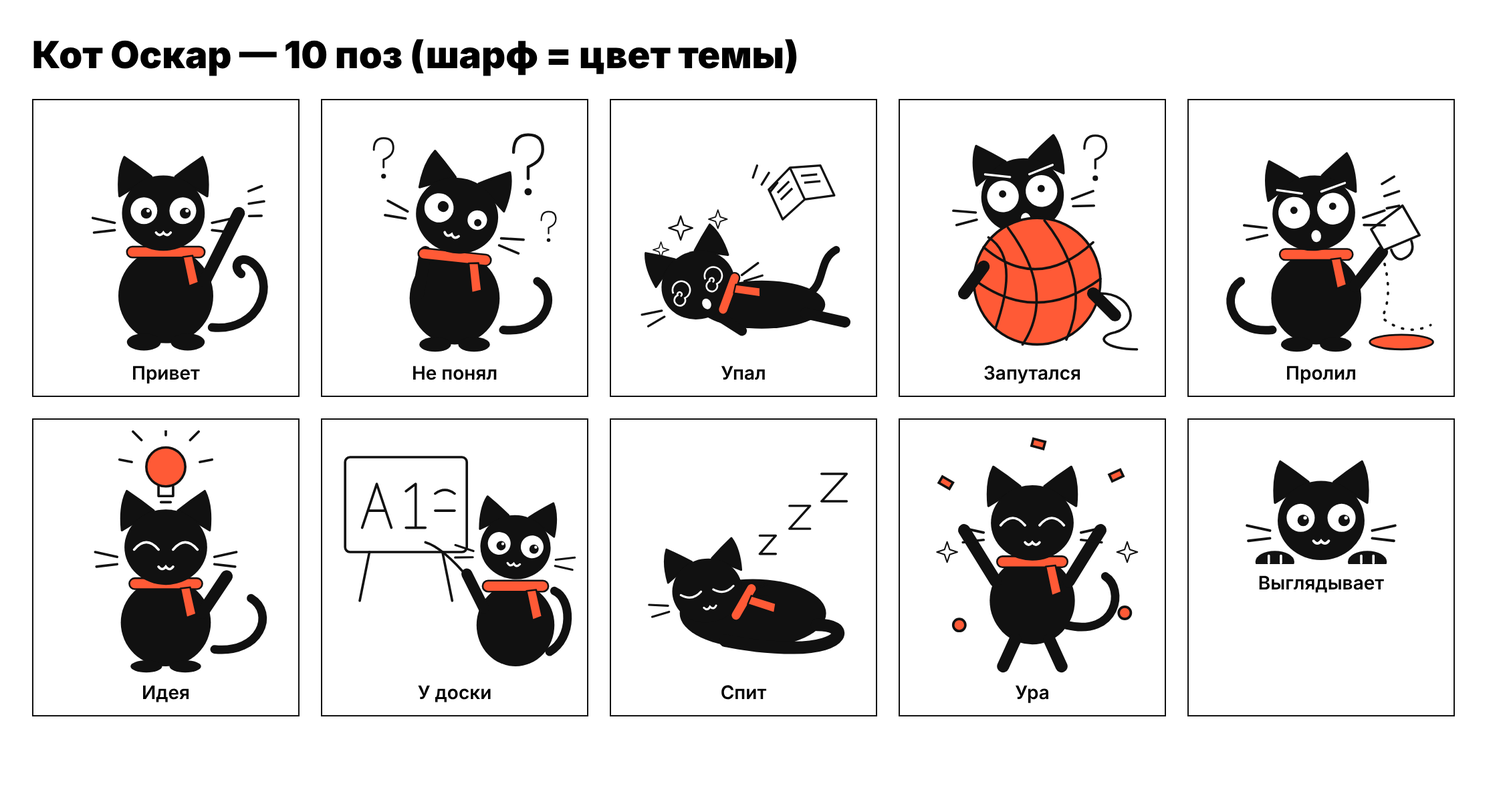
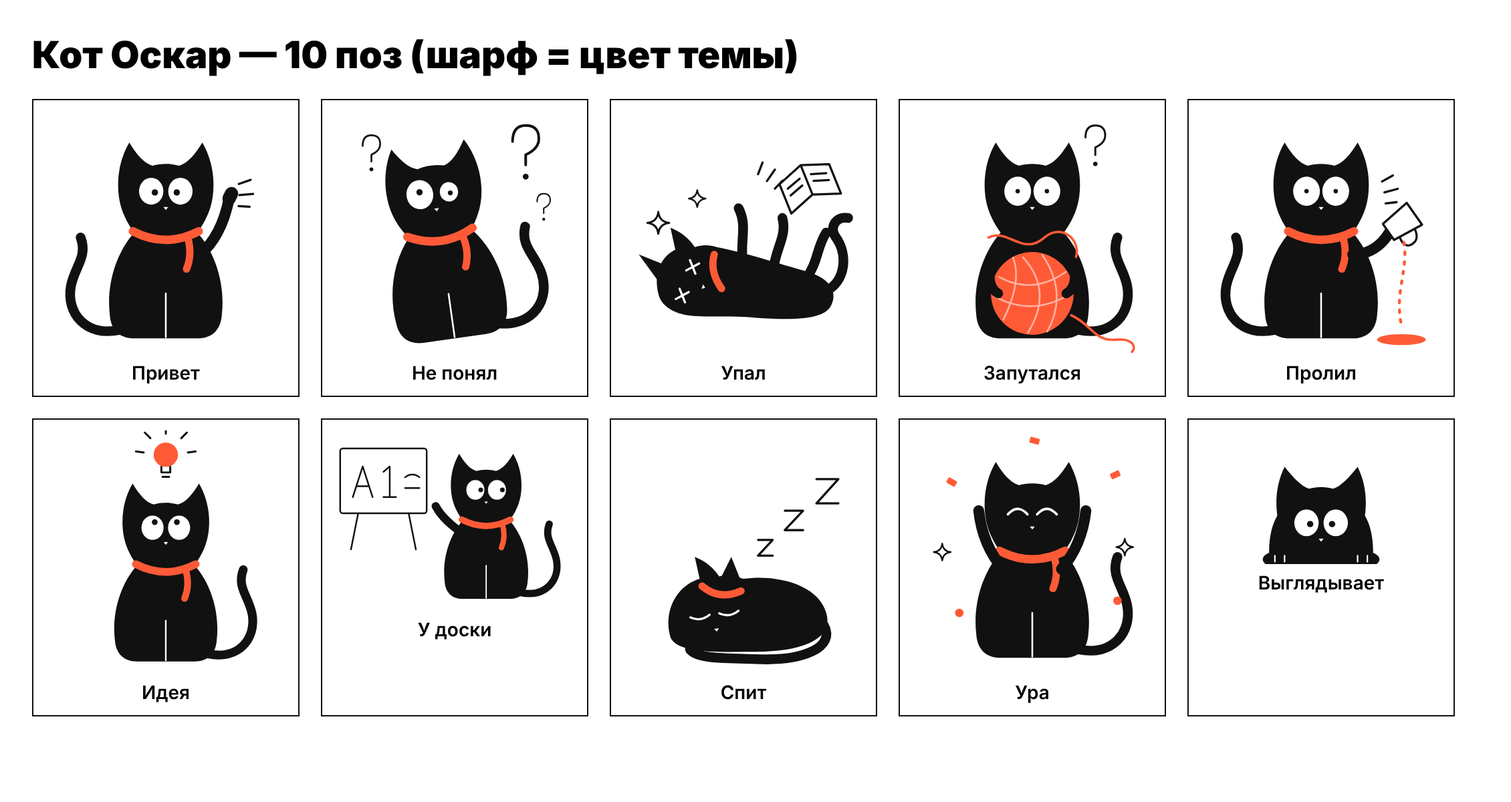
A1 Pack: кот Оскар v2 — цельный силуэт
Claude-Session: https://claude.ai/code/session_015qZXG6VofAvZu1TrhE4rwB

diff --git a/a1-pack/tools/draw_oscar.py b/a1-pack/tools/draw_oscar.py
@@ -1,141 +1,161 @@
-"""Kaķis Oskars — oriģināls maskots (melns, apaļš, neveikls) + doodle dekori.
-Palaid: python3 a1-pack/tools/draw_oscar.py  → a1-pack/design/oscar/*.svg
-Šalle un konfeti — var(--accent) (tēmas krāsa)."""
+"""Kaķis Oskars — oriģināls maskots: viens plūstošs melns siluets, lielas baltas acis ar punktiņiem,
+garā aste, tievas ķepas. Neveikls. Akcenta krāsa (šalle, dzija, kafija) — var(--accent).
+Palaid: python3 a1-pack/tools/draw_oscar.py  → a1-pack/design/oscar/*.svg"""
 from pathlib import Path
 OUT = Path(__file__).resolve().parent.parent / "design" / "oscar"
 A = "var(--accent,#FF5A36)"
 K = "#111"
-S = f'fill="none" stroke="{K}" stroke-width="2" stroke-linecap="round" stroke-linejoin="round"'
+L = f'fill="none" stroke="{K}" stroke-width="1.8" stroke-linecap="round" stroke-linejoin="round"'
 
-def head(x, y, rot=0, eyes="open", s=1.0):
-    e = ""
-    if eyes == "open":
-        e = (f'<circle cx="-16" cy="-2" r="11" fill="#fff"/><circle cx="16" cy="-2" r="11" fill="#fff"/>'
-             f'<circle cx="-14" cy="0" r="4.5" fill="{K}"/><circle cx="18" cy="0" r="4.5" fill="{K}"/>'
-             f'<circle cx="-12.5" cy="-2" r="1.4" fill="#fff"/><circle cx="19.5" cy="-2" r="1.4" fill="#fff"/>')
-    elif eyes == "worried":
-        e = (f'<circle cx="-16" cy="-2" r="13" fill="#fff"/><circle cx="16" cy="-2" r="13" fill="#fff"/>'
-             f'<circle cx="-16" cy="-4" r="3" fill="{K}"/><circle cx="16" cy="-4" r="3" fill="{K}"/>'
-             f'<path d="M-28,-22 L-8,-17 M28,-22 L8,-17" stroke="#fff" stroke-width="1.8" stroke-linecap="round"/>')
-    elif eyes == "odd":
-        e = (f'<circle cx="-16" cy="-2" r="12" fill="#fff"/><circle cx="17" cy="-1" r="8" fill="#fff"/>'
-             f'<circle cx="-13" cy="-4" r="4.5" fill="{K}"/><circle cx="18" cy="1" r="3" fill="{K}"/>')
-    elif eyes == "dizzy":
-        e = ('<path d="M-16,-2 m-8,0 a8,8 0 1,1 8,8 a5,5 0 1,1 -5,-5 a2,2 0 1,1 2,2" fill="none" stroke="#fff" stroke-width="1.6"/>'
-             '<path d="M16,-2 m-8,0 a8,8 0 1,1 8,8 a5,5 0 1,1 -5,-5 a2,2 0 1,1 2,2" fill="none" stroke="#fff" stroke-width="1.6"/>')
-    elif eyes == "closed":
-        e = '<path d="M-26,0 Q-16,8 -6,0 M6,0 Q16,8 26,0" fill="none" stroke="#fff" stroke-width="2" stroke-linecap="round"/>'
-    elif eyes == "happy":
-        e = '<path d="M-26,2 Q-16,-10 -6,2 M6,2 Q16,-10 26,2" fill="none" stroke="#fff" stroke-width="2" stroke-linecap="round"/>'
-    mouth = '<path d="M-6,16 Q-3,20 0,16 Q3,20 6,16" fill="none" stroke="#fff" stroke-width="2" stroke-linecap="round"/>'
-    if eyes in ("worried", "dizzy"):
-        mouth = '<ellipse cx="0" cy="19" rx="4" ry="5" fill="#fff"/>'
-    wh = f'<path d="M-40,8 L-58,4 M-40,14 L-57,16 M40,8 L58,4 M40,14 L57,16" {S} stroke-width="1.2"/>'
-    return (f'<g transform="translate({x},{y}) rotate({rot}) scale({s})">{wh}'
-            f'<path d="M-36,-14 Q-38,-34 -32,-46 Q-20,-38 -10,-30 Z M36,-14 Q38,-34 32,-46 Q20,-38 10,-30 Z" fill="{K}" stroke="{K}" stroke-width="2" stroke-linejoin="round"/>'
-            f'<ellipse cx="0" cy="0" rx="34" ry="31" fill="{K}"/>{e}{mouth}</g>')
 
-def scarf(x, y, w=64, rot=0):
-    return (f'<g transform="translate({x},{y}) rotate({rot})"><rect x="{-w/2}" y="-4.5" width="{w}" height="9" rx="4.5" fill="{A}" stroke="{K}" stroke-width="1.4"/>'
-            f'<path d="M{w/2-18},4 l5,24 l8,-3 l-5,-22 Z" fill="{A}" stroke="{K}" stroke-width="1.4" stroke-linejoin="round"/></g>')
+def sil(d):
+    return f'<path d="{d}" fill="{K}"/>'
 
-def tail(d, w=7):
-    return f'<path d="{d}" fill="none" stroke="{K}" stroke-width="{w}" stroke-linecap="round"/>'
 
-def paw(x1, y1, x2, y2, w=10):
-    return f'<path d="M{x1},{y1} L{x2},{y2}" stroke="{K}" stroke-width="{w}" stroke-linecap="round"/>'
+def limb(d, w=9):
+    return f'<path d="{d}" fill="none" stroke="{K}" stroke-width="{w}" stroke-linecap="round" stroke-linejoin="round"/>'
+
+
+# sēdošs kaķis: galva + kakls + bumbierveida ķermenis — viena kontūra
+SIT = ("M70,26 C76,36 82,43 89,45 C96,43 104,43 111,45 C118,43 124,36 130,26 "
+       "C137,38 140,52 139,66 C138,82 131,93 126,100 C141,117 149,143 146,168 "
+       "C145,181 137,187 126,187 L74,187 C63,187 55,181 54,168 C51,143 59,117 74,100 "
+       "C69,93 62,82 61,66 C60,52 63,38 70,26 Z")
+
+
+def face(cx=100, cy=66, kind="open", rot=0):
+    w = "#fff"
+    if kind == "open":
+        e = (f'<ellipse cx="-12" cy="0" rx="10" ry="11" fill="{w}"/><ellipse cx="12" cy="0" rx="10" ry="11" fill="{w}"/>'
+             f'<circle cx="-9" cy="1" r="2.6" fill="{K}"/><circle cx="9" cy="1" r="2.6" fill="{K}"/>')
+    elif kind == "side":
+        e = (f'<ellipse cx="-12" cy="0" rx="10" ry="11" fill="{w}"/><ellipse cx="12" cy="0" rx="10" ry="11" fill="{w}"/>'
+             f'<circle cx="-6" cy="0" r="2.6" fill="{K}"/><circle cx="18" cy="0" r="2.6" fill="{K}"/>')
+    elif kind == "up":
+        e = (f'<ellipse cx="-12" cy="0" rx="10" ry="11" fill="{w}"/><ellipse cx="12" cy="0" rx="10" ry="11" fill="{w}"/>'
+             f'<circle cx="-10" cy="-5" r="2.6" fill="{K}"/><circle cx="10" cy="-5" r="2.6" fill="{K}"/>')
+    elif kind == "odd":
+        e = (f'<ellipse cx="-12" cy="0" rx="11" ry="12" fill="{w}"/><ellipse cx="12" cy="1" rx="7.5" ry="8" fill="{w}"/>'
+             f'<circle cx="-12" cy="-2" r="2.6" fill="{K}"/><circle cx="13" cy="2" r="2" fill="{K}"/>')
+    elif kind == "wide":
+        e = (f'<ellipse cx="-12" cy="0" rx="11" ry="12" fill="{w}"/><ellipse cx="12" cy="0" rx="11" ry="12" fill="{w}"/>'
+             f'<circle cx="-12" cy="0" r="1.8" fill="{K}"/><circle cx="12" cy="0" r="1.8" fill="{K}"/>')
+    elif kind == "closed":
+        e = f'<path d="M-20,1 Q-12,6 -4,1 M4,1 Q12,6 20,1" fill="none" stroke="{w}" stroke-width="1.8" stroke-linecap="round"/>'
+    elif kind == "happy":
+        e = f'<path d="M-20,3 Q-12,-6 -4,3 M4,3 Q12,-6 20,3" fill="none" stroke="{w}" stroke-width="2" stroke-linecap="round"/>'
+    elif kind == "dizzy":
+        e = (f'<path d="M-17,-4 l9,8 M-8,-4 l-9,8 M8,-4 l9,8 M17,-4 l-9,8" fill="none" stroke="{w}" stroke-width="1.8" stroke-linecap="round"/>')
+    nose = f'<path d="M-2,13 L2,13 L0,15.5 Z" fill="{w}"/>'
+    return f'<g transform="translate({cx},{cy}) rotate({rot})">{e}{nose}</g>'
+
+
+def scarf(path="M73,99 Q100,113 127,99", tail="M118,104 q4,14 -1,26"):
+    return (f'<path d="{path}" fill="none" stroke="{A}" stroke-width="7" stroke-linecap="round"/>'
+            f'<path d="{tail}" fill="none" stroke="{A}" stroke-width="6" stroke-linecap="round"/>')
+
+
+def legline(x=100, y1=150, y2=186):
+    return f'<path d="M{x},{y1} L{x},{y2}" stroke="#fff" stroke-width="1.4" stroke-linecap="round"/>'
+
 
 def qmark(x, y, s=1):
-    return f'<g transform="translate({x},{y}) scale({s})"><path d="M-8,-10 Q-8,-22 2,-22 Q12,-22 12,-12 Q12,-4 2,0 L2,8" {S}/><circle cx="2" cy="17" r="2.5" fill="{K}"/></g>'
+    return f'<g transform="translate({x},{y}) scale({s})"><path d="M-7,-9 Q-7,-20 2,-20 Q11,-20 11,-11 Q11,-4 2,0 L2,7" {L}/><circle cx="2" cy="15" r="2" fill="{K}"/></g>'
 
-def star(x, y, s=1, fill="none"):
-    return f'<path transform="translate({x},{y}) scale({s})" d="M0,-12 L3,-3 L12,0 L3,3 L0,12 L-3,3 L-12,0 L-3,-3 Z" fill="{fill}" stroke="{K}" stroke-width="1.6" stroke-linejoin="round"/>'
 
-def motion(x, y, rot=0):
-    return f'<path transform="translate({x},{y}) rotate({rot})" d="M0,0 l10,-6 M2,10 l12,-4 M4,20 l10,-2" {S} stroke-width="1.6"/>'
+def spark(x, y, s=1):
+    return f'<path transform="translate({x},{y}) scale({s})" d="M0,-10 Q1,-1 10,0 Q1,1 0,10 Q-1,1 -10,0 Q-1,-1 0,-10 Z" {L}/>'
+
+
+def lines(x, y, rot=0):
+    return f'<path transform="translate({x},{y}) rotate({rot})" d="M0,0 l9,-5 M2,9 l11,-3 M3,18 l9,-1" {L}/>'
+
+
+TAIL_R = limb("M138,180 C166,186 182,166 178,144 C175,128 164,120 170,104", 8)
+TAIL_L = limb("M62,180 C34,186 18,166 22,144 C25,128 36,120 30,104", 8)
 
 P = {}
-P["hello"] = ("0 0 200 200",
-    tail("M138,178 C178,182 192,140 170,124 C160,118 154,128 162,134") +
-    '<ellipse cx="100" cy="152" rx="39" ry="39" fill="#111"/>' + paw(132, 140, 160, 84) +
-    '<ellipse cx="82" cy="190" rx="14" ry="7" fill="#111"/><ellipse cx="118" cy="190" rx="14" ry="7" fill="#111"/>' +
-    scarf(100, 116) + head(98, 84) + motion(168, 66, 10))
-P["oops"] = ("0 0 200 200",
-    '<g transform="translate(16,8) scale(.9)">' + tail("M150,160 C170,150 160,128 178,118") +
-    '<ellipse cx="110" cy="168" rx="58" ry="22" fill="#111"/>' + paw(150, 176, 186, 184, 10) + paw(70, 178, 92, 192, 9) +
-    head(52, 150, -24, "dizzy") + star(36, 98, .9) + star(70, 90, .7) + star(18, 118, .6) +
-    '<g transform="translate(140,52) rotate(-25)"><path d="M-26,0 L0,-10 L0,22 L-26,30 Z M26,0 L0,-10 L0,22 L26,30 Z" fill="#fff" stroke="#111" stroke-width="2" stroke-linejoin="round"/>'
-    '<path d="M-20,6 L-6,1 M-20,13 L-6,8 M6,1 L20,6 M6,8 L20,13" stroke="#111" stroke-width="2"/></g>' + motion(102, 52, -40) +
-    scarf(80, 158, 40, -70) + "</g>")
-P["tangled"] = ("0 0 200 200",
-    head(92, 70, -8, "worried") +
-    f'<circle cx="104" cy="140" r="52" fill="{A}" stroke="#111" stroke-width="2"/>'
-    f'<path d="M60,112 Q104,150 150,108 M54,140 Q104,176 156,138 M70,178 Q90,120 64,104 M110,90 Q150,140 128,188 M80,96 Q120,150 92,192" {S} stroke-width="1.6"/>'
-    + paw(60, 128, 44, 150, 10) + paw(150, 150, 168, 168, 10) +
-    f'<path d="M156,150 C182,150 190,176 168,182 C150,186 160,196 186,196" {S} stroke-width="1.6"/>' + qmark(150, 40, .9))
-P["teacher"] = ("0 0 200 200",
-    '<rect x="10" y="22" width="100" height="78" rx="4" fill="#fff" stroke="#111" stroke-width="2"/>'
-    '<path d="M24,80 L36,44 L48,80 M29,66 L43,66 M60,50 L68,44 L68,80 M60,80 L76,80" fill="none" stroke="#111" stroke-width="2" stroke-linecap="round" stroke-linejoin="round"/>'
-    f'<path d="M84,52 Q92,46 100,52 M84,66 L100,66" {S} stroke-width="1.6"/>'
-    '<path d="M30,100 L22,140 M90,100 L98,140" stroke="#111" stroke-width="2" stroke-linecap="round"/>' +
-    tail("M178,182 C198,170 196,138 182,132") +
-    '<ellipse cx="150" cy="160" rx="32" ry="34" fill="#111"/>' + paw(124, 146, 110, 118, 9) +
-    '<path d="M112,122 Q90,96 76,92" stroke="#111" stroke-width="2" fill="none" stroke-linecap="round"/>' +
-    scarf(150, 128, 54) + head(150, 96, 6, "open", .85))
-P["confused"] = ("0 0 200 200",
-    tail("M140,180 C176,184 186,150 168,140") +
-    '<ellipse cx="100" cy="154" rx="37" ry="38" fill="#111"/>' + paw(70, 150, 76, 116, 10) +
-    '<ellipse cx="84" cy="192" rx="13" ry="6" fill="#111"/><ellipse cx="116" cy="192" rx="13" ry="6" fill="#111"/>' +
-    scarf(100, 120, 60, 6) + head(102, 86, 16, "odd") + qmark(158, 46, 1.2) + qmark(40, 40, .8) + qmark(176, 96, .6))
-P["sleep"] = ("0 0 200 200",
-    '<g transform="translate(10,0) scale(.94)"><ellipse cx="104" cy="160" rx="64" ry="30" fill="#111"/>' +
-    tail("M160,170 C190,170 184,190 140,190 C110,190 92,186 80,184", 11) +
-    head(64, 140, -10, "closed", .9) +
-    f'<path d="M110,92 h14 l-14,16 h14 M136,66 h18 l-18,20 h18 M164,38 h22 l-22,24 h22" {S} stroke-width="2"/>' +
-    scarf(96, 150, 36, -60) + "</g>")
-P["spill"] = ("0 0 200 200",
-    tail("M60,180 C24,184 18,150 34,140") +
-    '<ellipse cx="96" cy="154" rx="37" ry="38" fill="#111"/>' + paw(128, 144, 150, 116, 10) +
-    '<g transform="translate(160,98) rotate(60)"><path d="M-14,-16 L14,-16 L10,16 L-10,16 Z" fill="#fff" stroke="#111" stroke-width="2" stroke-linejoin="round"/>'
-    '<path d="M14,-8 Q26,-6 24,6 Q22,12 12,10" fill="none" stroke="#111" stroke-width="2"/></g>'
-    f'<path d="M150,118 Q160,150 150,170 Q170,186 190,176" fill="none" stroke="#111" stroke-width="2" stroke-dasharray="1 7" stroke-linecap="round"/>'
-    f'<ellipse cx="166" cy="190" rx="26" ry="6" fill="{A}" stroke="#111" stroke-width="1.6"/>' +
-    '<ellipse cx="80" cy="192" rx="13" ry="6" fill="#111"/><ellipse cx="112" cy="192" rx="13" ry="6" fill="#111"/>' +
-    scarf(96, 118, 60) + head(94, 84, -6, "worried") + motion(150, 60, 0))
-P["idea"] = ("0 0 200 200",
-    tail("M140,180 C178,184 190,150 170,138") +
-    '<ellipse cx="100" cy="158" rx="37" ry="36" fill="#111"/>' + paw(130, 150, 150, 120, 10) +
-    '<ellipse cx="84" cy="194" rx="13" ry="5" fill="#111"/><ellipse cx="116" cy="194" rx="13" ry="5" fill="#111"/>' +
-    scarf(100, 126, 60) + head(100, 96, 0, "happy") +
-    f'<g transform="translate(100,30)"><circle r="16" fill="{A}" stroke="#111" stroke-width="2"/><path d="M-6,16 L-6,24 L6,24 L6,16 M-4,29 L4,29" {S} stroke-width="2"/>'
-    f'<path d="M-28,-4 l-10,-2 M28,-4 l10,-2 M-20,-22 l-7,-7 M20,-22 l7,-7 M0,-26 l0,-9" {S} stroke-width="2"/></g>')
-P["peek"] = ("0 0 200 110",
-    head(100, 74, 0, "open", 1.05) + '<ellipse cx="62" cy="108" rx="16" ry="9" fill="#111"/><ellipse cx="138" cy="108" rx="16" ry="9" fill="#111"/>'
-    '<path d="M57,103 l0,6 M67,103 l0,6 M133,103 l0,6 M143,103 l0,6" stroke="#fff" stroke-width="2" stroke-linecap="round"/>')
-P["celebrate"] = ("0 0 200 200",
-    tail("M128,160 C170,170 176,130 160,120") +
-    '<ellipse cx="100" cy="140" rx="35" ry="36" fill="#111"/>' + paw(70, 124, 44, 82, 10) + paw(130, 124, 156, 82, 10) +
-    '<path d="M86,172 L76,194 M114,172 L124,194" stroke="#111" stroke-width="10" stroke-linecap="round"/>' +
-    scarf(100, 108, 58) + head(100, 76, 0, "happy") +
-    f'<g fill="{A}" stroke="#111" stroke-width="2"><rect x="24" y="40" width="10" height="6" transform="rotate(30 29 43)"/><rect x="164" y="34" width="10" height="6" transform="rotate(-25 169 37)"/>'
-    f'<circle cx="40" cy="160" r="5"/><circle cx="176" cy="150" r="5"/><rect x="100" y="8" width="10" height="6" transform="rotate(15 105 11)"/></g>' +
-    star(30, 100, .7) + star(178, 100, .7))
+P["hello"] = ("0 0 200 200", TAIL_L + sil(SIT) + limb("M128,118 C140,108 148,92 152,72", 9) +
+              limb("M152,72 l2,-4", 11) + legline() + scarf() + face() + lines(160, 60, 10))
+P["confused"] = ("0 0 200 200", f'<g transform="rotate(-8 100 186)">' + TAIL_R + sil(SIT) + legline() + scarf() + face(kind="odd") + "</g>"
+                 + qmark(156, 36, 1.2) + qmark(30, 36, .8) + qmark(172, 80, .6))
+P["idea"] = ("0 0 200 200", TAIL_R + sil(SIT.replace("M70,26", "M70,26")) + legline() + scarf() + face(kind="up") +
+             f'<g transform="translate(100,0)"><circle cx="0" cy="12" r="0" fill="none"/></g>')
+# idea: spuldze virs galvas — maza, tieva
+P["idea"] = ("0 0 220 220", '<g transform="translate(10,22)">' + TAIL_R + sil(SIT) + legline() + scarf() + face(kind="up") + "</g>" +
+             f'<g transform="translate(110,22)"><circle r="11" fill="{A}"/><path d="M-4,11 v5 h8 v-5 M-3,20 h6" {L}/>'
+             f'<path d="M-20,-2 l-7,-1 M20,-2 l7,-1 M-14,-15 l-5,-5 M14,-15 l5,-5 M0,-19 v-6" {L}/></g>')
+# guļus uz muguras, ķepas gaisā — siluets vienā gabalā
+OOPS = ("M30,150 C26,134 32,120 44,114 L40,96 C50,100 56,106 60,112 C66,110 72,110 78,112 "
+        "C100,116 130,126 152,132 C170,137 178,148 172,160 C166,172 140,172 110,170 "
+        "C88,168 66,170 54,168 C42,166 32,160 30,150 Z")
+P["oops"] = ("0 0 200 200", limb("M168,148 C184,140 186,118 176,104 C170,96 176,86 186,88", 8) + sil(OOPS) + sil("M34,126 L14,118 L30,140 Z") +
+             limb("M100,128 C96,108 104,96 96,80", 8) + limb("M124,134 C126,112 136,104 132,88", 8) +
+             limb("M150,140 C162,124 160,112 168,100", 8) + face(54, 140, "dizzy", -70) +
+             spark(30, 92, .9) + spark(62, 72, .7) +
+             f'<g transform="translate(150,52) rotate(-22)"><path d="M-22,0 L0,-8 L0,18 L-22,26 Z M22,0 L0,-8 L0,18 L22,26 Z" fill="#fff" {L[10:]}/>'
+             f'<path d="M-17,6 L-5,2 M-17,12 L-5,8 M5,2 L17,6 M5,8 L17,12" {L}/></g>' + lines(112, 52, -40) +
+             f'<path d="M76,118 Q72,132 82,146" fill="none" stroke="{A}" stroke-width="6" stroke-linecap="round"/>')
+# apķēries ap dzijas kamolu, dzija apvijusies
+P["tangled"] = ("0 0 200 200", TAIL_R + sil(SIT) + face(kind="wide") +
+                f'<circle cx="100" cy="150" r="34" fill="{A}"/>'
+                f'<path d="M72,136 Q100,152 128,132 M68,152 Q100,170 132,150 M76,172 Q92,140 84,120 M108,118 Q130,150 112,182 M92,120 Q118,148 96,183" fill="none" stroke="#fff" stroke-opacity=".55" stroke-width="1.4"/>'
+                + limb("M70,118 C62,130 64,146 72,150", 8) + limb("M130,118 C138,130 136,146 128,150", 8) +
+                f'<path d="M64,104 C80,96 92,120 110,104 C124,92 140,106 136,120 M132,168 C150,176 150,190 170,188 C182,187 186,194 182,198" fill="none" stroke="{A}" stroke-width="2" stroke-linecap="round"/>'
+                + qmark(150, 30, .9))
+# izlej kafiju
+P["spill"] = ("0 0 200 200", TAIL_L + sil(SIT) + legline() + scarf() + face(kind="wide") +
+              limb("M126,118 C140,118 150,110 156,100", 9) +
+              f'<g transform="translate(166,92) rotate(55)"><path d="M-11,-13 L11,-13 L8,13 L-8,13 Z" fill="#fff" {L[10:]}/>'
+              f'<path d="M11,-6 Q21,-4 19,5 Q17,10 9,8" {L}/></g>'
+              f'<path d="M168,108 C172,130 160,150 166,176" fill="none" stroke="{A}" stroke-width="2.4" stroke-dasharray="2 6" stroke-linecap="round"/>'
+              f'<ellipse cx="166" cy="188" rx="20" ry="4.5" fill="{A}"/>' + lines(150, 58))
+# pie tāfeles (stāv uz pakaļkājām, rāda)
+P["teacher"] = ("0 0 270 200",
+                f'<rect x="8" y="20" width="96" height="72" rx="3" fill="#fff" {L[10:]}/>'
+                f'<path d="M22,74 L33,40 L44,74 M27,62 L39,62 M56,46 L63,40 L63,74 M56,74 L70,74 M80,52 q8,-6 16,0 M80,64 h16" {L}/>'
+                f'<path d="M28,92 L20,132 M84,92 L92,132" {L}/>' +
+                '<g transform="translate(70,0)">' + TAIL_R + sil(SIT) + legline() + scarf() + face(kind="side") +
+                limb("M76,116 C62,106 50,96 44,84", 9) + "</g>")
+# guļ saritinājies, aste apvijusies
+SLEEP = ("M40,170 C34,150 44,128 64,122 L60,104 C70,108 76,114 80,120 C88,118 94,120 100,122 "
+         "C130,118 162,128 168,150 C174,170 152,182 110,182 C80,182 46,184 40,170 Z")
+P["sleep"] = ("0 0 200 200", sil(SLEEP) + sil("M80,124 L90,104 L98,124 Z") + limb("M166,160 C176,178 150,190 110,188 C84,187 62,188 56,180", 8) +
+              face(76, 150, "closed", -8) +
+              f'<path d="M66,128 Q80,140 98,132" fill="none" stroke="{A}" stroke-width="6" stroke-linecap="round"/>'
+              f'<path d="M112,90 h12 l-12,13 h12 M134,66 h15 l-15,16 h15 M160,40 h18 l-18,20 h18" {L}/>')
+# prieks — stāv, abas ķepas augšā
+P["celebrate"] = ("0 0 200 200", TAIL_R + sil(SIT) + legline() + scarf() + face(kind="happy") +
+                  limb("M76,114 C64,100 58,84 56,66", 9) + limb("M124,114 C136,100 142,84 144,66", 9) +
+                  f'<g fill="{A}"><rect x="30" y="40" width="8" height="5" rx="1" transform="rotate(30 34 42)"/><rect x="164" y="34" width="8" height="5" rx="1" transform="rotate(-25 168 36)"/>'
+                  f'<circle cx="40" cy="150" r="3.5"/><circle cx="170" cy="140" r="3.5"/><rect x="98" y="6" width="8" height="5" rx="1" transform="rotate(15 102 8)"/></g>' +
+                  spark(26, 100, .7) + spark(176, 96, .7))
+# lūr no apakšas (galva + ķepiņas uz malas)
+PEEK = ("M58,110 C56,96 58,80 64,70 C62,56 64,42 70,30 C78,40 84,46 90,48 C97,46 103,46 110,48 "
+        "C116,46 122,40 130,30 C136,42 138,56 136,70 C142,80 144,96 142,110 Z")
+P["peek"] = ("0 0 200 110", sil(PEEK) + face(100, 76) +
+             '<ellipse cx="66" cy="106" rx="14" ry="7" fill="#111"/><ellipse cx="134" cy="106" rx="14" ry="7" fill="#111"/>'
+             '<path d="M62,103 v5 M70,103 v5 M130,103 v5 M138,103 v5" stroke="#fff" stroke-width="1.2" stroke-linecap="round"/>')
 
 D = {}
-D["sun"] = ("0 0 60 60", f'<circle cx="30" cy="30" r="11" {S}/><path d="M30,4 v8 M30,48 v8 M4,30 h8 M48,30 h8 M12,12 l6,6 M42,42 l6,6 M48,12 l-6,6 M12,48 l6,-6" {S}/>')
-D["cloud"] = ("0 0 90 50", f'<path d="M14,40 Q2,40 4,30 Q6,20 18,22 Q20,8 36,10 Q46,2 58,12 Q74,8 76,24 Q88,26 86,36 Q84,42 74,40 Z" {S} stroke-width="2"/>')
-D["sparkle"] = ("0 0 40 40", f'<path d="M20,4 Q22,18 36,20 Q22,22 20,36 Q18,22 4,20 Q18,18 20,4 Z" {S} stroke-width="2"/>')
-D["star"] = ("0 0 40 40", f'<path d="M20,4 L24,15 L36,16 L27,24 L30,36 L20,29 L10,36 L13,24 L4,16 L16,15 Z" {S} stroke-width="2"/>')
-D["arrow"] = ("0 0 90 40", f'<path d="M4,30 C20,4 40,40 60,16 Q66,10 80,14 M70,6 L82,14 L72,22" {S} stroke-width="2"/>')
-D["pencil"] = ("0 0 60 60", f'<path d="M10,50 L14,38 L42,10 L50,18 L22,46 Z M38,14 L46,22 M10,50 L22,46" {S} stroke-width="2"/>')
-D["moon"] = ("0 0 50 50", f'<path d="M34,8 A18,18 0 1,0 42,36 A14,14 0 1,1 34,8 Z" {S} stroke-width="2"/>')
-D["bulb"] = ("0 0 50 60", f'<circle cx="25" cy="22" r="13" {S} stroke-width="2"/><path d="M19,36 v8 h12 v-8 M21,50 h8" {S} stroke-width="2"/>')
+D["sun"] = ("0 0 60 60", f'<circle cx="30" cy="30" r="10" {L}/><path d="M30,6 v8 M30,46 v8 M6,30 h8 M46,30 h8 M13,13 l6,6 M41,41 l6,6 M47,13 l-6,6 M13,47 l6,-6" {L}/>')
+D["cloud"] = ("0 0 90 50", f'<path d="M14,40 Q2,40 4,30 Q6,20 18,22 Q20,8 36,10 Q46,2 58,12 Q74,8 76,24 Q88,26 86,36 Q84,42 74,40 Z" {L}/>')
+D["sparkle"] = ("0 0 40 40", f'<path d="M20,4 Q22,18 36,20 Q22,22 20,36 Q18,22 4,20 Q18,18 20,4 Z" {L}/>')
+D["star"] = ("0 0 40 40", f'<path d="M20,4 L24,15 L36,16 L27,24 L30,36 L20,29 L10,36 L13,24 L4,16 L16,15 Z" {L}/>')
+D["arrow"] = ("0 0 90 40", f'<path d="M4,30 C20,4 40,40 60,16 Q66,10 80,14 M70,6 L82,14 L72,22" {L}/>')
+D["pencil"] = ("0 0 60 60", f'<path d="M10,50 L14,38 L42,10 L50,18 L22,46 Z M38,14 L46,22 M10,50 L22,46" {L}/>')
+D["moon"] = ("0 0 50 50", f'<path d="M34,8 A18,18 0 1,0 42,36 A14,14 0 1,1 34,8 Z" {L}/>')
+D["bulb"] = ("0 0 50 60", f'<circle cx="25" cy="22" r="13" {L}/><path d="M19,36 v8 h12 v-8 M21,50 h8" {L}/>')
+
 
 def main():
     OUT.mkdir(parents=True, exist_ok=True)
+    for f in OUT.glob("*.svg"):
+        f.unlink()
     for name, (vb, body) in {**P, **{"d-" + k: v for k, v in D.items()}}.items():
         (OUT / f"{name}.svg").write_text(f'<svg xmlns="http://www.w3.org/2000/svg" viewBox="{vb}" role="img" aria-label="Oskars">{body}</svg>\n')
     print("svg:", len(P) + len(D))
+
 
 if __name__ == "__main__":
     main()

diff --git a/docs/plan-status.md b/docs/plan-status.md
@@ -156,4 +156,4 @@
 - 2026-11-16: 119 пинов №826–944 «Artist lifestyle / Behind the artist camera» из 55 фото Алины (каждое фото в 2–4 пинах): художник + рисунок с сайта, палитры из фото и референсов, мемы/POV, мудборды, «draw this». Ссылка — просто на сайт. Notion «Pinterest pins 3.0». Допущения: коты, магазины и поездки описаны без имён и подробностей; фото без надписи «моё» (лампа, перцы и т. п.) — как свои референсы. docs/palettes.md
 - 2026-11-16: 10 постов Facebook на латышском (17.11–8.12: знакомство, 18 ноября, трамвай «до/после», Полли, палитра зимнего поля, грибной домик, кот в гирлянде, «кофе или вода для кистей», Mr. Chew вяжет, книга по акварели) — отдельная база Notion «Facebook posti LV» (`collection://41a34395-245b-81ec-8f5f-000b664f677f`), картинки — арты и фото с сайта, ссылки на /lv/ с `utm_source=facebook&utm_campaign=fb_lv`. Допущения: даты и время — предложение; Pollija — «balodis» (м. р., как в подписях сайта). docs/growth.md
 - 2026-11-16: ещё 50 постов Facebook LV №11–60 в Notion «Facebook posti LV» — без дат, поле «Сезон» (Зима/Весна/Лето/Осень/Круглый год): 15 палитр-картинок (`node tools/fb/fb_pal.js` → site/images/fb/pal-<ключ>.jpg, 1080×1350, названия цветов LV из palettes.json, шрифт Lora — у Fraunces ломаются ē/ī), адвент 26–29, курс «Skaties uz pasauli kā mākslinieks» 30–33, «Tuša» 34–37, бесплатные видео 38–41 (+раскраска 40), freebies, челлендж, Полли/Mr. Chew/Титос, Jāņi, книги, «Uzzīmē man». Скриншоты /lv/advent/, /lv/polly-helps/, /lv/ink/ → site/images/fb/. Допущения помечены ⚠ в «Почему так» на страницах постов. docs/growth.md
-- 2026-11-20: 86.1–86.2 A1 English Pack (a1-pack/, не на сайте) — в работе: шрифты с латышскими буквами (Grandstander/Inter/Caveat; Fredoka отброшен — нет ā ē ī ū ķ ļ ņ ģ), кот Оскар 10 поз (tools/draw_oscar.py, шарф = цвет темы), pack.css/pack.js, build_pack.py (HTML), render.js (PNG/PDF). Ждёт: согласование кота (a1-pack/oscar-variants.png). Дальше: make_office.py (DOCX/PPTX), пример темы, скилл .claude/skills/a1-pack.
+- 2026-11-20: 86.1–86.2 A1 English Pack (a1-pack/, не на сайте) — в работе: шрифты с латышскими буквами (Grandstander/Inter/Caveat; Fredoka отброшен — нет ā ē ī ū ķ ļ ņ ģ), кот Оскар 10 поз (tools/draw_oscar.py, шарф = цвет темы), pack.css/pack.js, build_pack.py (HTML), render.js (PNG/PDF). Кот v2 — цельный текучий силуэт по референсам Алины; ждёт согласования (a1-pack/oscar-variants.png). Дальше: make_office.py (DOCX/PPTX), пример темы, скилл .claude/skills/a1-pack.
